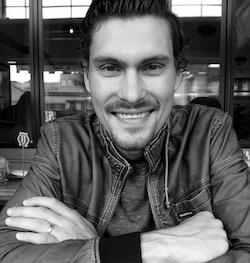
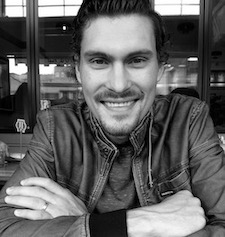
adjust photo size and justify text

diff --git a/index.html b/index.html
@@ -54,9 +54,8 @@
         <div class="container">
             <h1 class="mt-5 text-center text-lg-left">About me</h1>
             <hr>
-            <p class="lead capitalize">
-            <img src="assets/images/nate-headshot.jpg" alt="Nate Micinski Headshot" class="img-fluid float-left pr-3">
-                
+            <p class="lead capitalize text-justify">
+            <img src="assets/images/nate-headshot.jpg" alt="Nate Micinski Headshot" class="rounded float-left mr-3">
             My name is Nate and I am a developer for both financial causes and user-focused web applications. A graduate of the UCLA Extension Full-Stack Bootcamp I am versed in HTML, CSS, JavaScript, Node.js, jQuery, Git, and GitHub.
             <br>
             <br>
